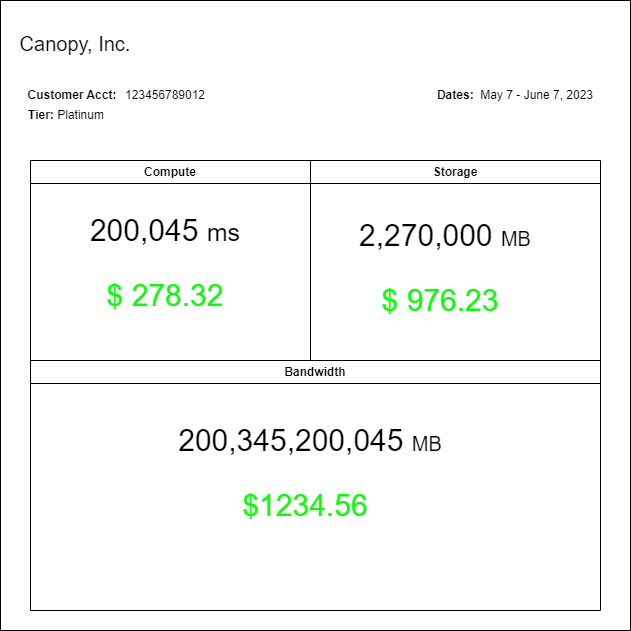
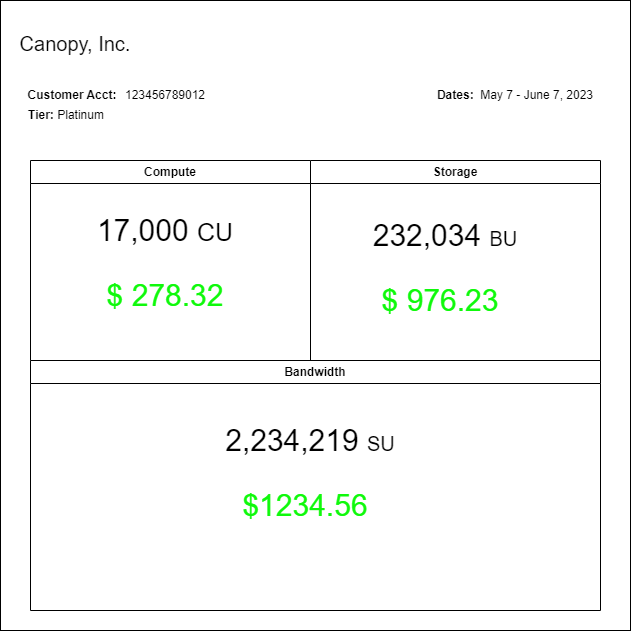
cleanup. Added text for missing sections

Changed region(s): [[0.271, 0.6624, 0.7227, 0.7227], [0.5721, 0.3312, 0.8431, 0.3914], [0.1506, 0.3312, 0.3914, 0.3914]]

diff --git a/docs/design.md b/docs/design.md
@@ -1,117 +1,97 @@
 # Usage-Based Billing Design
 
+## Introduction
+
+### 1.1 Purpose
+
 The purpose of this document is to outline a design strategy for a prototype of a usage-based billing system for a Canopy take-home assignment. The billing system will only take into account the following properties:
 
 - Storage
 - Compute
 - Bandwidth
 
-Starting from what the customer will see, the billing statement should look something like the following:
+### 1.2 Scope
 
-![usage_statement](usage_statement.png)
+This document is intended to give a detailed description of the functionality need to accomplish the implementation of a Metrics-centric Usage-based Billing system. That coverage dose not include the following aspects of our system.
 
-## Requirements
+- Definition or collection of Metrics
+- Payment system
+- Definition of customer pricing structure
+  - The system will be flexible enough to handle change in pricing
+
+### 1.3 Requirements
 
 The system in question will express the following requirements:
-
-### Functional
 
 - A user shall be able to pull up-to-date information of a customer's billing data.
 - A user shall be able to pull past customer billing statements.
 - A user shall be able to make adjustments to customer billing statements.
 
-\
-&nbsp;
-\
-&nbsp;
-\
-&nbsp;
+## System Overview
 
-<p align="center" width="100%">
-    <img style="text-align:center" src="high_level.png">
-</p>
+### **Architecture**
 
-### <ins>Metrics Store
+![architecture](high_level_2.png)
 
-The metrics store holds metrics related to usage. The final implementation will more than likely be stored in Google Cloud Metrics, but for this implementation, the store will be mocked with in code. I am currently making an assumption that the ability to relate a customer with a service event is implemented within the store service.
+## Detailed Design
 
-### <ins>Customer Accounts Database
+Our design will make use of a **Per-unit** billing model. The per-unit model will give us a metric for each property and is relatively simple to convert to a **tiered**, **volume-based**, and or **overage** model in the future, if necessary.
 
-The customer accounts database contains all information related to our customer. This database will be used by the reporter to get needed pricing information for our customers when creating the usage statement.
+Starting from what the customer will see, the billing statement should look something like the following:
 
-### <ins>Usage Interpreter
+![usage_statement](usage_statement.png)
 
-The usage interpreter analyzes the individual usage events to provide billable usage units.
+**<ins>Metrics Store</ins>**
 
-```
-guest/cpu/usage_time BETA
-CPU usage
+> The metrics store holds metrics related to usage. The final implementation will more than likely be stored in Google Cloud Metrics, but for this implementation, the store will be mocked in code. I am currently making an assumption that the ability to relate a customer with a service event is implemented within the store service.
 
-CUMULATIVE, DOUBLE, s{CPU}
-gce_instance
+**<ins>Customer Accounts</ins>**
 
-CPU usage, in seconds. For Container-Optimized OS, or Ubuntu running GKE.
-instance_name: The name of the VM instance.
-state: One of the following: idle, interrupt, nice, softirq, steal, system, user, wait.
-```
+> The customer accounts database contains all information related to our customer. This database will be used by the reporter to get needed pricing information for our customers when creating the usage statement.
 
-```
-storage/total_bytes GA
-Total bytes
+**<ins>Usage Converter</ins>**
 
-GAUGE, DOUBLE, By
-gcs_bucket
+> The usage converter analyzes the individual usage events to provide billable usage units (BU, CU, SU).
 
-Total size of all objects in the bucket, grouped by storage class. This value is measured once per day, and there might be a delay after measuring before the value becomes available in Cloud Monitoring. Once available, the value is repeated at each sampling interval throughout the day. Buckets with no objects in them are not tracked by this metric. For this metric, the sampling period is a reporting period, not a measurement period. Sampled every 300 seconds. After sampling, data is not visible for up to 600 seconds.
-storage_class: Storage class of the data.
-```
-
-**Compute**
+**Usage Event**
 
 ```
 {
    "customer": "123456789012",
-   "type": "compute"
+   "type": "[compute|storage|bandwidth]"
    "timestamp": 123456789
-   "usage": 200045,
+   "units": 2023,
+   "created": 123456789
 }
 ```
 
-**Storage**
+**<ins>Usage Auditor</ins>**
 
-```
-{
-   "customer": "123456789012",
-   "type": "storage"
-   "timestamp": 123456789
-   "usage": 2270000,
-}
-```
+> The usage auditor will audit a percentage of the converted usage events for accuracy. If is finds an error, the usage event will be quarantined, an alarm will be raised, and conversion will be halted for further inspection. Auditing will need more information than the usage event currently has. I will know more about the proper way to audit once I do more research on the metrics system. Perhaps, if there is a metric ID, we can store it in the usage event to have a record of where the usage event was derived.
 
-**Bandwidth**
+**<ins>Usage Writers</ins>**
 
-```
-{
-   "customer": "123456789012",
-   "type": "bandwidth"
-   "timestamp": 123456789
-   "usage": 200045,
-}
-```
+> The purpose of the usage writers is to pull usage events from the Message Queue and write them to the Usage Database.
 
-### <ins>Auditor
+**<ins>Usage Database</ins>**
 
-### Billing Database Writers
+> Contains all usage events for all customers that have occurred within the last three months.
 
-### <ins>Billing Database
+**<ins>Usage Archiver</ins>**
 
-### <ins>Billing DatabaseArchiver
+> Removes all usage events older than three months from the usage database and writes them to the Usage Archive.
 
-### <ins>Billing Archive
+**<ins>Usage Archive</ins>**
 
-### <ins>Billing Adjustments
+> Stores all usage events older than three months.
 
-### <ins>Reporter Builder</ins>
+**<ins>Billing Adjustments</ins>**
+
+> The adjustments database holds corrections to customer billing charges. This is so we do not contaminate the original usage data.
+
+**<ins>Report Builder</ins>**
+
+> The Report Builder is responsible for pulling data from the Usage Database, Customer Accounts, and Billing Adjustments to create a usage billing statement. Based on the image of the user statement above, we will return an object similar to the following:
 
 ```
 {
@@ -121,15 +101,15 @@ storage_class: Storage class of the data.
    "currency": "usd",
    "tier": "platinum",
    "compute: {
-       "usage": 2000045,
+       "units": 2000045,
        "cost": 278.32
    },
    "storage: {
-       "usage": 2270000,
+       "units": 2270000,
        "cost": 976.23
    },
    "bandwidth": {
-       "usage": 200345200045,
+       "units": 200345200045,
        "cost": 1234.56
     }
 }
